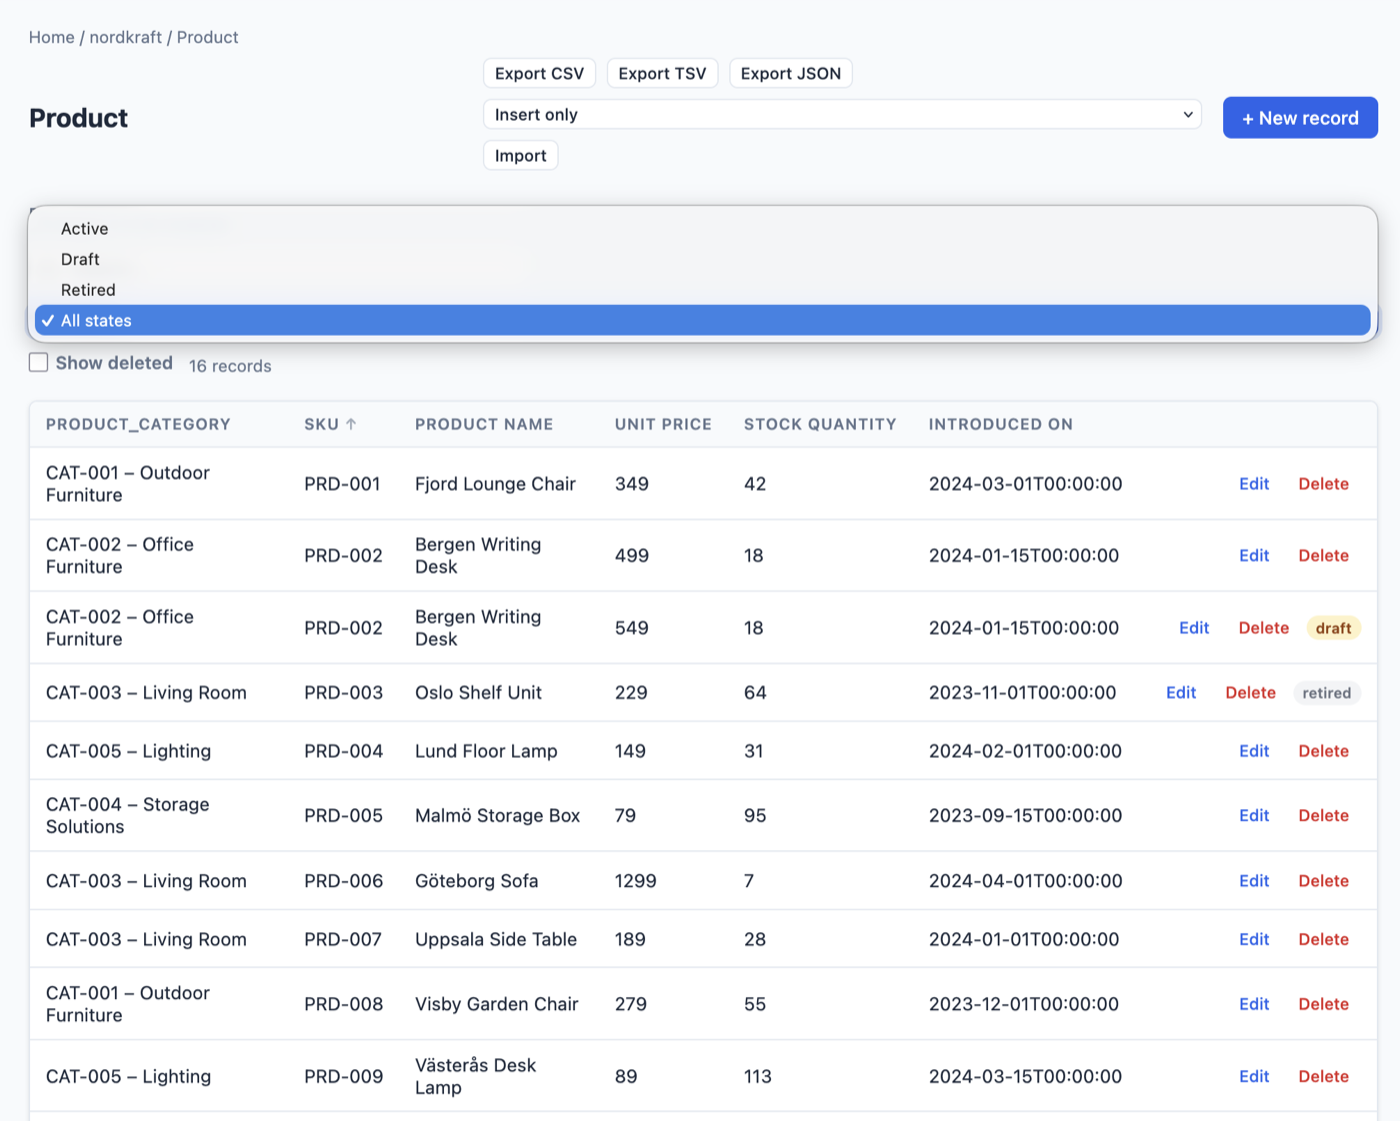
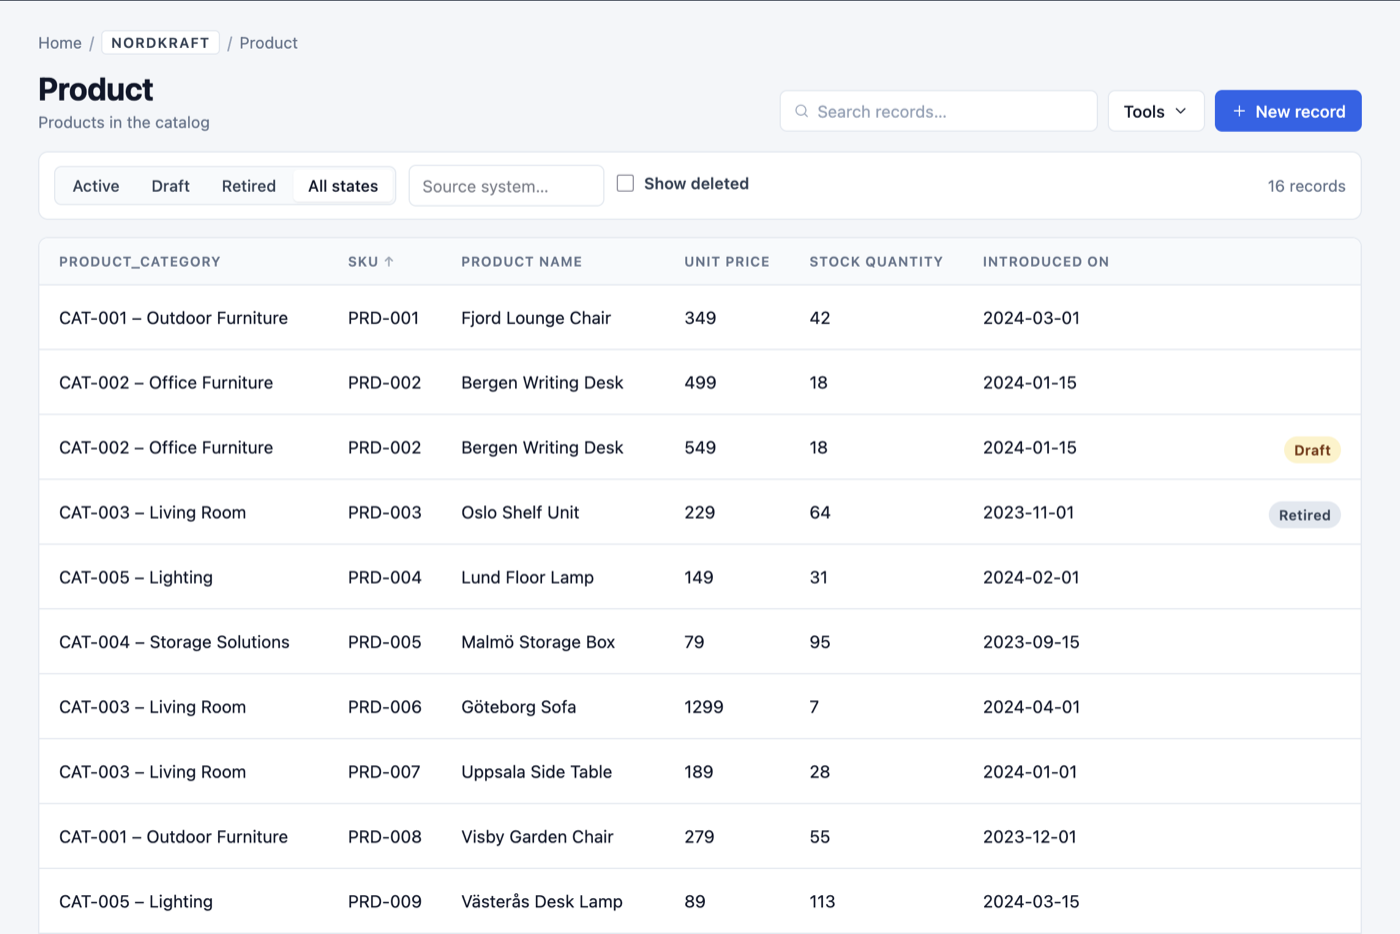
Update site for miniMDM v0.6.1
- Bump version to 0.6.1 (hero eyebrow and OSS stats block)
- Refresh all tour screenshots for the v0.6.1 UI facelift; all four
  tour panels now have light and dark variants (3a/3b, 4a/4b, 5a/5b);
  light/dark switcher added to detail, history and audit log panels to
  match the existing records panel; JS scoped per-frame so switchers
  operate independently
- Fix footer brand logo: .footer .brand i was #64748b (low contrast
  on dark background), aligned to #cbd5e1 to match the header
- Replace white-pill GitHub header CTA with a plain icon link styled
  consistently with the rest of the nav
- Fix README: remove stale mention of the runtime GitHub API version
  fetch removed in v0.6.0

diff --git a/index.html b/index.html
@@ -37,9 +37,8 @@
         <svg class="icon-moon" viewBox="0 0 24 24" fill="none" stroke="currentColor" stroke-width="2" stroke-linecap="round" stroke-linejoin="round" aria-hidden="true"><path d="M21 12.79A9 9 0 1 1 11.21 3 7 7 0 0 0 21 12.79z"/></svg>
         <svg class="icon-sun" viewBox="0 0 24 24" fill="none" stroke="currentColor" stroke-width="2" stroke-linecap="round" stroke-linejoin="round" aria-hidden="true"><circle cx="12" cy="12" r="5"/><path d="M12 1v2M12 21v2M4.22 4.22l1.42 1.42M18.36 18.36l1.42 1.42M1 12h2M21 12h2M4.22 19.78l1.42-1.42M18.36 5.64l1.42-1.42"/></svg>
       </button>
-      <a class="header-cta" href="https://github.com/planemarlin/minimdm" target="_blank" rel="noopener">
+      <a class="nav-github" href="https://github.com/planemarlin/minimdm" target="_blank" rel="noopener" aria-label="GitHub">
         <svg viewBox="0 0 16 16" fill="currentColor" aria-hidden="true"><path d="M8 0C3.58 0 0 3.58 0 8a8 8 0 0 0 5.47 7.59c.4.07.55-.17.55-.38 0-.19-.01-.82-.01-1.49-2.01.37-2.53-.49-2.69-.94-.09-.23-.48-.94-.82-1.13-.28-.15-.68-.52-.01-.53.63-.01 1.08.58 1.23.82.72 1.21 1.87.87 2.33.66.07-.52.28-.87.51-1.07-1.78-.2-3.64-.89-3.64-3.95 0-.87.31-1.59.82-2.15-.08-.2-.36-1.02.08-2.12 0 0 .67-.21 2.2.82.64-.18 1.32-.27 2-.27.68 0 1.36.09 2 .27 1.53-1.04 2.2-.82 2.2-.82.44 1.1.16 1.92.08 2.12.51.56.82 1.27.82 2.15 0 3.07-1.87 3.75-3.65 3.95.29.25.54.73.54 1.48 0 1.07-.01 1.93-.01 2.2 0 .21.15.46.55.38A8.01 8.01 0 0 0 16 8c0-4.42-3.58-8-8-8Z"/></svg>
-        Star on GitHub
       </a>
     </nav>
   </div>
@@ -51,7 +50,7 @@
 <section class="hero">
   <div class="container hero__grid">
     <div>
-      <span class="hero__eyebrow"><span class="dot"></span> v0.6.0 · MIT licensed</span>
+      <span class="hero__eyebrow"><span class="dot"></span> v0.6.1 · MIT licensed</span>
       <h1 class="hero__title">Master data management, <em>without the mainframe.</em></h1>
       <p class="hero__lede">
         miniMDM is a minimal, self-hosted application for curating the records your business runs on — customers, products, locations, anything. Define your schema in YAML, edit through a clean web UI or REST API, and get versioning, audit trails and access control out of the box.
@@ -262,9 +261,17 @@
             <div class="frame__chrome">
               <span class="frame__dots"><span></span><span></span><span></span></span>
               <span class="frame__url">mdm.internal.example.com / projects / records / 42</span>
+              <span class="frame__modeswitch" role="tablist" aria-label="Preview theme">
+                <button class="is-active" data-tour-mode="light" type="button">Light</button>
+                <button data-tour-mode="dark" type="button">Dark</button>
+              </span>
             </div>
             <div class="frame__body">
-              <img src="assets/screens/3-details.png" alt="Record detail view with fields grouped into sections and related objects below" />
+              <img data-tour-img="details"
+                   data-light="assets/screens/3a-details-light.png"
+                   data-dark="assets/screens/3b-details-dark.png"
+                   src="assets/screens/3a-details-light.png"
+                   alt="Record detail view with fields grouped into sections and related objects below" />
             </div>
           </div>
           <p class="tour__caption"><span class="badge">02</span> Detail view — fields grouped into sections with child records and back-references inline.</p>
@@ -275,9 +282,17 @@
             <div class="frame__chrome">
               <span class="frame__dots"><span></span><span></span><span></span></span>
               <span class="frame__url">mdm.internal.example.com / projects / records / 42 / history</span>
+              <span class="frame__modeswitch" role="tablist" aria-label="Preview theme">
+                <button class="is-active" data-tour-mode="light" type="button">Light</button>
+                <button data-tour-mode="dark" type="button">Dark</button>
+              </span>
             </div>
             <div class="frame__body">
-              <img src="assets/screens/4-record-history.png" alt="Version history timeline for a single record, with insert/update/revert badges" />
+              <img data-tour-img="history"
+                   data-light="assets/screens/4a-record-history-light.png"
+                   data-dark="assets/screens/4b-record-history-dark.png"
+                   src="assets/screens/4a-record-history-light.png"
+                   alt="Version history timeline for a single record, with insert/update/revert badges" />
             </div>
           </div>
           <p class="tour__caption"><span class="badge">03</span> Version history — every edit stored forever, any version revertable in one click.</p>
@@ -288,9 +303,17 @@
             <div class="frame__chrome">
               <span class="frame__dots"><span></span><span></span><span></span></span>
               <span class="frame__url">mdm.internal.example.com / audit</span>
+              <span class="frame__modeswitch" role="tablist" aria-label="Preview theme">
+                <button class="is-active" data-tour-mode="light" type="button">Light</button>
+                <button data-tour-mode="dark" type="button">Dark</button>
+              </span>
             </div>
             <div class="frame__body">
-              <img src="assets/screens/5-audit-log.png" alt="System-wide audit log listing user actions with timestamps and filters" />
+              <img data-tour-img="audit"
+                   data-light="assets/screens/5a-audit-log-light.png"
+                   data-dark="assets/screens/5b-audit-log-dark.png"
+                   src="assets/screens/5a-audit-log-light.png"
+                   alt="System-wide audit log listing user actions with timestamps and filters" />
             </div>
           </div>
           <p class="tour__caption"><span class="badge">04</span> Audit log — a filterable trail of every action across every schema and user.</p>
@@ -395,7 +418,7 @@
       <div class="oss__left">
         <div class="stat-row" style="margin-top:0;">
           <div class="stat"><b>MIT</b><span>License</span></div>
-          <div class="stat"><b>0.6.0</b><span>Latest release</span></div>
+          <div class="stat"><b>0.6.1</b><span>Latest release</span></div>
           <div class="stat"><b>0</b><span>Telemetry calls</span></div>
           <div class="stat"><b>PostgreSQL</b><span>Backend</span></div>
         </div>
@@ -515,12 +538,12 @@
     });
   });
 
-  // Tour records light/dark switcher
+  // Tour light/dark switchers (one per panel)
   document.querySelectorAll('[data-tour-mode]').forEach(btn => {
     btn.addEventListener('click', () => {
-      document.querySelectorAll('[data-tour-mode]').forEach(b => b.classList.remove('is-active'));
+      btn.closest('.frame__modeswitch').querySelectorAll('[data-tour-mode]').forEach(b => b.classList.remove('is-active'));
       btn.classList.add('is-active');
-      const img = document.querySelector('[data-tour-img="records"]');
+      const img = btn.closest('.frame').querySelector('[data-tour-img]');
       img.src = btn.dataset.tourMode === 'dark' ? img.dataset.dark : img.dataset.light;
     });
   });

diff --git a/site.css b/site.css
@@ -141,20 +141,8 @@ button { font: inherit; cursor: pointer; }
 [data-theme="dark"] .theme-toggle .icon-moon { display: none; }
 [data-theme="dark"] .theme-toggle .icon-sun { display: block; }
 
-.header-cta {
-  display: inline-flex;
-  align-items: center;
-  gap: .4rem;
-  padding: .4rem .75rem;
-  border-radius: var(--radius);
-  background: #fff;
-  color: #1e293b;
-  font-size: .825rem;
-  font-weight: 600;
-  border: 1px solid #fff;
-}
-.header-cta:hover { text-decoration: none; background: #e2e8f0; border-color: #e2e8f0; }
-.header-cta svg { width: 14px; height: 14px; }
+.nav-github { display: inline-flex; align-items: center; }
+.nav-github svg { width: 18px; height: 18px; }
 
 /* ========================================================= */
 /*  Hero                                                      */
@@ -635,7 +623,7 @@ button { font: inherit; cursor: pointer; }
 .footer a { color: #cbd5e1; }
 .footer a:hover { color: #fff; text-decoration: none; }
 .footer .brand b { color: #fff; }
-.footer .brand i { color: #64748b; }
+.footer .brand i { color: #cbd5e1; }
 .footer__grid {
   display: grid;
   grid-template-columns: 1.5fr repeat(3, 1fr);
@@ -676,7 +664,7 @@ button { font: inherit; cursor: pointer; }
 @media (max-width: 920px) {
   .section { padding: 56px 0; }
   .site-nav a { display: none; }
-  .site-nav .theme-toggle, .site-nav .header-cta { display: inline-flex; }
+  .site-nav .theme-toggle, .site-nav .nav-github { display: inline-flex; }
 }
 
 /* ========================================================= */

diff --git a/README.md b/README.md
@@ -33,7 +33,7 @@ Then open [http://localhost:8181](http://localhost:8181).
 
 Drop the files on any static hosting provider (GitHub Pages, Netlify, Vercel, Cloudflare Pages, or a plain web server). No server-side processing is needed.
 
-The latest release version is fetched at runtime from the GitHub API and cached in `localStorage` for one hour, so the version badge stays current without a rebuild.
+The release version is updated manually in `index.html` on each release (two static strings: the hero eyebrow and the OSS stats block).
 
 ## Contributing
 